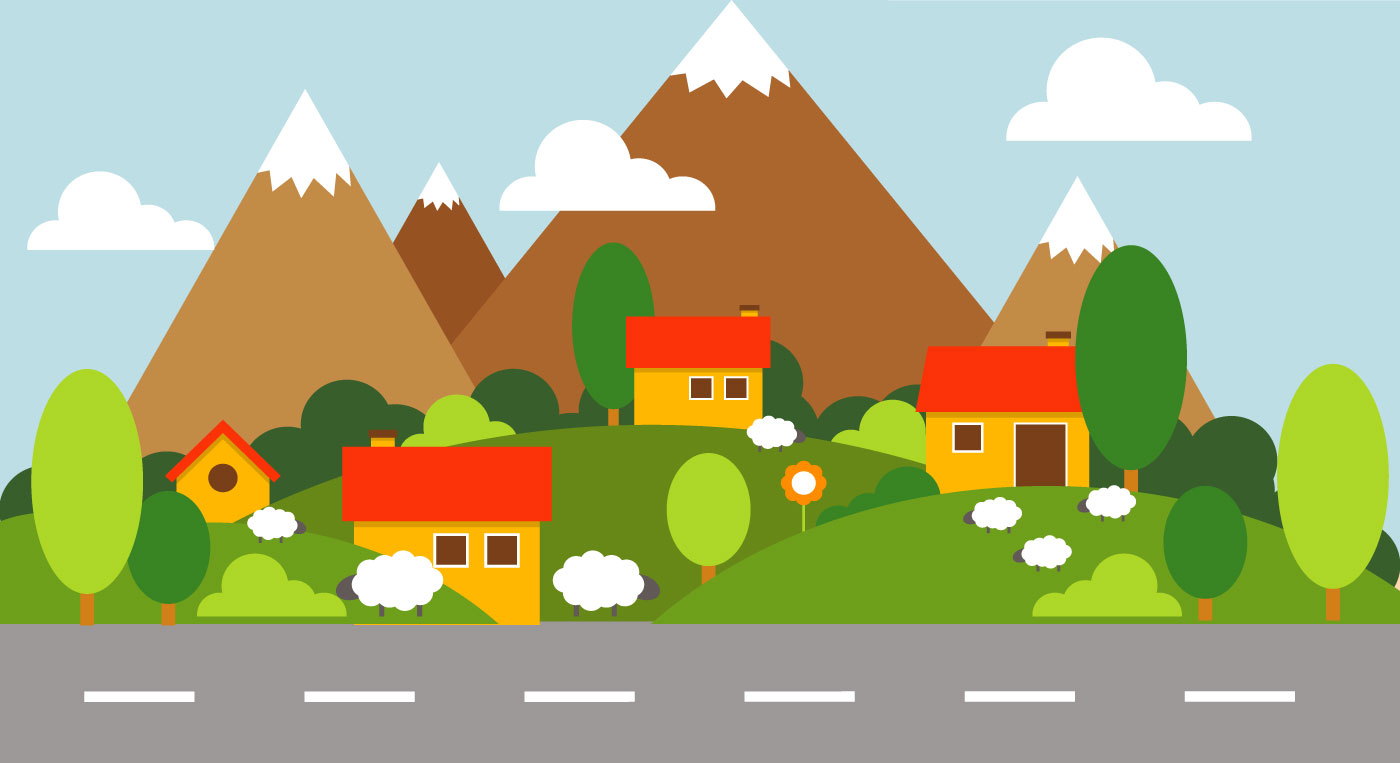
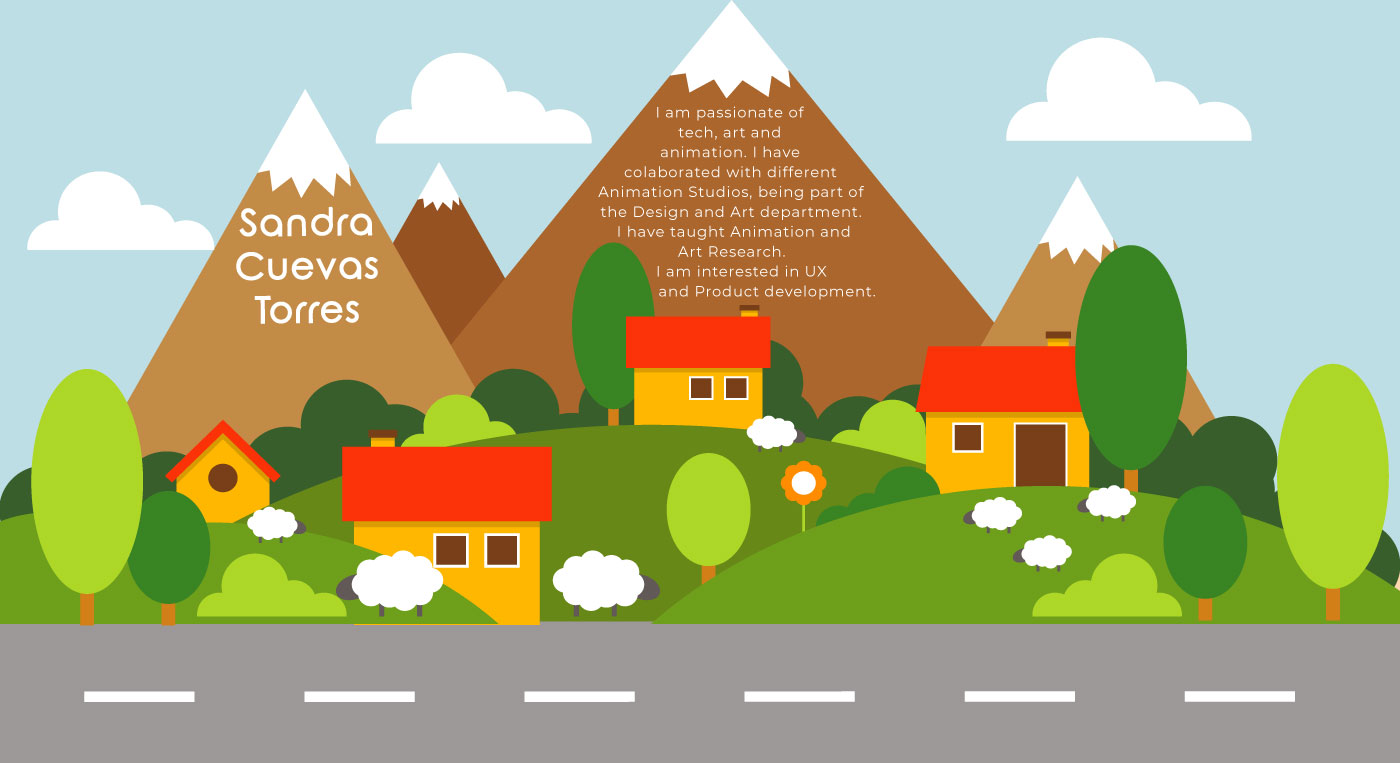
skills animadas

Changed region(s): [[0.2457, 0.0603, 0.6143, 0.3919], [0.1536, 0.2713, 0.2764, 0.422]]

diff --git a/src/components/Slide.jsx b/src/components/Slide.jsx
@@ -5,6 +5,8 @@ import img002 from '../img/img002.jpg';
 import img003 from '../img/img003.jpg';
 import BikeMe from './Bike'
 import MyName from './Plane'
+import ContactMe from './Contact'
+import MySkills from './Skills'
 import './style/slide.css'
 
 const properties = {
@@ -21,13 +23,14 @@ const Slideshow = () => {
         <div className="containerSlide">
         <Slide {...properties}>
             <div className="each-slide" style={{backgroundImage: `url(${img001})`, height: '100vh', backgroundRepeat:'no-repeat'}}>
-                <MyName style={{flex: 1, resizeMode: 'contain' }}/>
-                <BikeMe />
+                <ContactMe/>
+                <MyName/>
+                <BikeMe/>
+                
+
             </div>
             <div className="each-slide" style={{backgroundImage: `url(${img002})`, height: '100vh', backgroundRepeat:'no-repeat'}}>
-                <div>Skills</div>
-                <button>Boton</button>
-                <BikeMe />
+                <MySkills/>
             </div>
             <div className="each-slide" style={{backgroundImage: `url(${img003})`, height: '100vh', backgroundRepeat:'no-repeat'}}>
                 <div>Projects</div>

diff --git a/public/index.html b/public/index.html
@@ -10,6 +10,7 @@
       user's mobile device or desktop. See https://developers.google.com/web/fundamentals/web-app-manifest/
     -->
     <link rel="manifest" href="%PUBLIC_URL%/manifest.json" />
+    <link href="https://fonts.googleapis.com/css?family=Montserrat&display=swap" rel="stylesheet">
     <!--
       Notice the use of %PUBLIC_URL% in the tags above.
       It will be replaced with the URL of the `public` folder during the build.
@@ -29,6 +30,7 @@
   </head>
   <body>
     <noscript>You need to enable JavaScript to run this app.</noscript>
+    <script src="https://kit.fontawesome.com/1a9b027e47.js"></script>
     <div id="root"></div>
     <!--
       This HTML file is a template.

diff --git a/src/components/Contact.jsx b/src/components/Contact.jsx
@@ -1,0 +1,20 @@
+import React from 'react';
+import { Container, Row, Col, Alert } from 'react-bootstrap';
+import './style/bike.css'
+
+const ContactMe = () => {
+    return (
+        <Container className="contact">
+        <Row>
+          <Col></Col>
+          <Col>
+          <Alert.Link href="https://www.github.com/SandraCuevas"><i className="fab fa-github-square"></i></Alert.Link>
+          <br/>
+          <Alert.Link href="https://www.linkedin.com/in/sandra-cuevastorres"><i class="fab fa-linkedin"></i></Alert.Link>
+          </Col>
+        </Row>
+      </Container>
+    )
+}
+
+export default ContactMe;

diff --git a/src/components/style/bike.css b/src/components/style/bike.css
@@ -1,10 +1,25 @@
 .imgPlane{
-    padding-top: 10px;
+    
     height: 10px;
 }
 
 .imgBike{
+    padding-top: 70px;
     display: flex;
     align-items:flex-end;
-    padding-top: 240px;
+}
+
+.contact{
+    font-family: 'Montserrat', sans-serif;
+}
+
+.fab {
+    padding-top: 20px;
+    font-size: 50px;
+}
+
+.imgSkills{
+    padding-top: 20px;
+    display: flex;
+    align-items:flex-end;
 }

diff --git a/src/components/Skills.jsx b/src/components/Skills.jsx
@@ -1,0 +1,16 @@
+import React from 'react';
+import Skills from '../img/Skills.gif';
+import './style/bike.css';
+import Image from 'react-image-resizer';
+
+const MySkills = () => {
+    return (
+
+        <div className="imgSkills">
+            <Image src={Skills} alt="gif"width={1800} height={405}/>
+        </div>
+
+    )
+}
+
+export default MySkills;

diff --git a/src/components/Plane.js b/src/components/Plane.js
@@ -6,7 +6,7 @@ import Image from 'react-image-resizer';
 const Name = () => {
     return (
         <div className="imgPlane">
-            <Image src={MyName} alt="gif"width={1400} height={205}/>
+            <Image src={MyName} alt="gif"width={1270} height={205}/>
         </div>
     )
 }

diff --git a/src/components/style/slide.css b/src/components/style/slide.css
@@ -1,8 +1,6 @@
-/*.containerSlide {
-    width: 600px;
-    margin: auto;
-    padding-top: 100px;
-}*/
+.containerSlide {
+    width: 1280px;
+}
 
 .containerSlide img {
     height: 500px;
